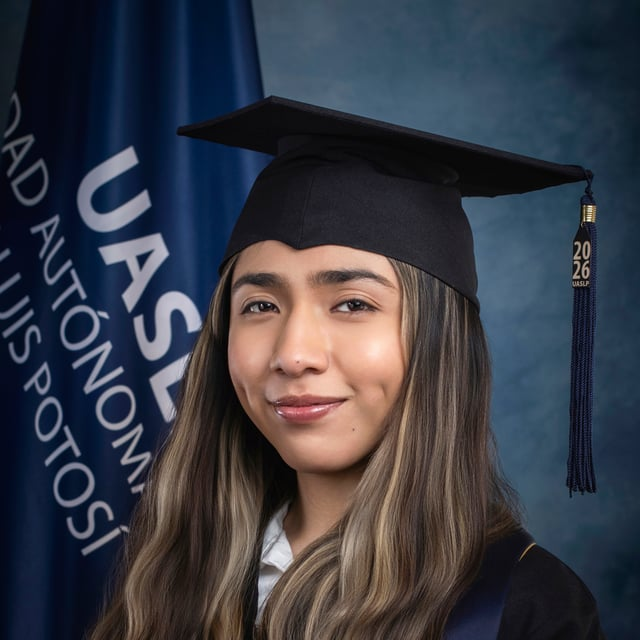
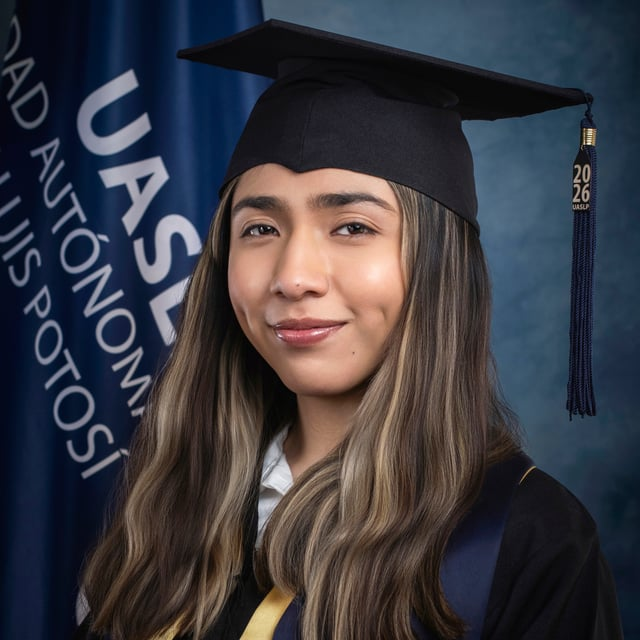
content: frame the about portrait on crop B (M4.6)

diff --git a/docs/tasks.md b/docs/tasks.md
@@ -1797,14 +1797,15 @@ ADR 0045 enmienda el 0024, el 0041 y la regla (j).
       Hecho. El tope de palabras de `/how-its-built` en `tests/prose.test.ts` pasa a 800.
 - [x] **M4.6** Quién es y la foto.
       Hecho. El original `scratch/m4/foto.jpg` no se sube. La versión de trabajo es
-      `src/assets/about/montse.jpg`, 640 × 640, recorte cuadrado centrado en la cara, sin EXIF, ICC,
-      IPTC ni XMP (una prueba lo fija). Astro la sirve en AVIF y WebP, a 160 px y a 320 px: 2.8 y
-      6.4 KiB en AVIF, 4.6 y 11.4 KiB en WebP. El círculo es la forma; el rectángulo con
-      `border-radius` del token grande es la otra, con `data-shape`. `alt=""`. El texto es el
-      anexo §B1: 102 palabras en ES y 99 en EN, tope 120. `/about` no tenía techo propio: el de la
-      foto es 16 KiB, el archivo más grande que ofrece. La primera carga queda en 137.3 KiB (EN) y
-      137.4 KiB (ES). Los cuatro perfiles conservan `rel="me"`; el repo de la página y
-      el del motor no. El del motor, solo con el candado abierto.
+      `src/assets/about/montse.jpg`, 640 × 640, sin EXIF, ICC, IPTC ni XMP (una prueba lo fija).
+      Astro la sirve en AVIF y WebP, a 160 px y a 320 px: 2.8 y 6.8 KiB en AVIF, 4.8 y 12.6 KiB en
+      WebP. El círculo es la forma; el rectángulo con `border-radius` del token grande es la otra,
+      con `data-shape`. `alt=""`. El texto es el anexo §B1: 102 palabras en ES y 99 en EN, tope
+      120. `/about` no tenía techo propio: el de la foto es 16 KiB, el archivo más grande que
+      ofrece. La primera carga queda en 137.7 KiB (EN) y 137.8 KiB (ES). Los cuatro perfiles
+      conservan `rel="me"`; el repo de la página y el del motor no. El del motor, solo con el
+      candado abierto. El 2026-10-12 Montse eligió el recorte B: la misma ventana, 413 px más
+      abajo (el 8 % del alto de la foto).
 - [ ] **M4.7** Cómo está hecho. El recuadro «En un minuto» arriba, con el mismo estilo que el de
       `/finding`. Anexo §B2. `{tests}` solo si el build puede contar las pruebas solo, como
       `weight.json`, con una prueba que falle si el número no coincide; si no, la variante sin
